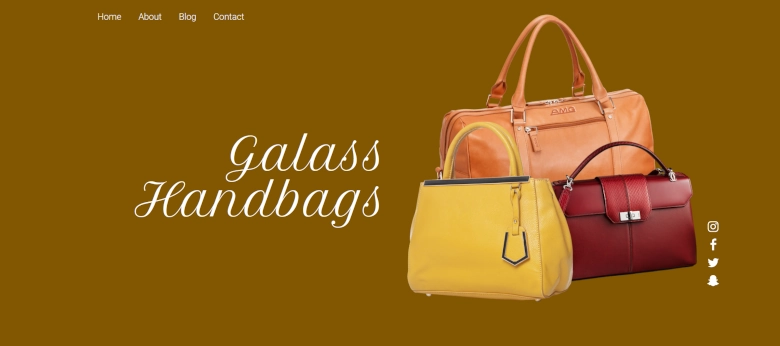
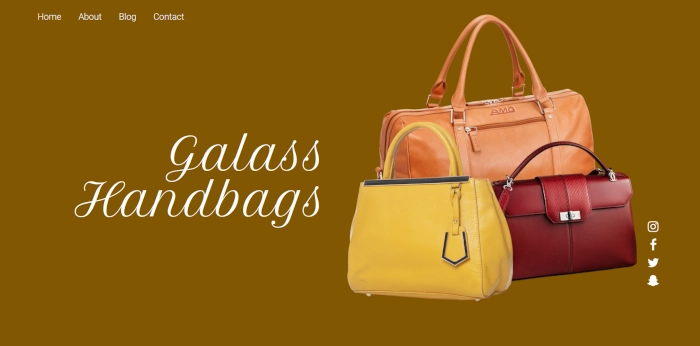
added contact me style

diff --git a/styles/styles.css b/styles/styles.css
@@ -269,6 +269,7 @@ html {
 }
 
 body {
+  font-family: "Roboto", sans-serif;
   font-size: 1rem;
   line-height: 28px;
   letter-spacing: 1px;
@@ -360,11 +361,14 @@ p {
 }
 .mainHeader .headerContainer .headerTxtContainer {
   width: 50%;
-  font-size: 1.3rem;
+}
+.mainHeader .headerContainer .headerTxtContainer h1 {
+  font-size: 2.5rem;
+  line-height: 120px;
 }
 .mainHeader .headerContainer .headerTxtContainer span {
   color: #ffc86b;
-  font-size: 4rem;
+  font-size: 4.5rem;
 }
 .mainHeader .headerContainer .headerTxtContainer p {
   font-size: 2rem;
@@ -475,6 +479,8 @@ p {
   background-color: #ffc86b;
   padding: 5px 30px 5px 5px;
   margin: 0px 10px 0;
+  -webkit-transition: all 0.4s ease;
+  transition: all 0.4s ease;
 }
 .portfolio .projectTxtContainer a i {
   padding-left: 25px;
@@ -486,6 +492,61 @@ p {
 .portfolio .projectTxtContainer a:hover, .portfolio .projectTxtContainer a:focus {
   color: #ffc86b;
   background-color: #abacb0;
-  -webkit-transition: all 0.2s ease;
-  transition: all 0.2s ease;
+}
+
+.contactMe {
+  width: 100%;
+  background-color: #31333b;
+  padding: 100px 0 50px;
+  display: -webkit-box;
+  display: -ms-flexbox;
+  display: flex;
+  -webkit-box-orient: vertical;
+  -webkit-box-direction: normal;
+      -ms-flex-direction: column;
+          flex-direction: column;
+  -webkit-box-pack: center;
+      -ms-flex-pack: center;
+          justify-content: center;
+  -webkit-box-align: center;
+      -ms-flex-align: center;
+          align-items: center;
+}
+.contactMe .contactHrContainer {
+  width: 100%;
+  display: -webkit-box;
+  display: -ms-flexbox;
+  display: flex;
+  -webkit-box-pack: justify;
+      -ms-flex-pack: justify;
+          justify-content: space-between;
+  -webkit-box-align: center;
+      -ms-flex-align: center;
+          align-items: center;
+}
+.contactMe .contactHrContainer h2 {
+  text-align: center;
+}
+.contactMe .contactHrContainer p {
+  width: 38%;
+  border-bottom: 3px solid #ffc86b;
+}
+.contactMe .contactInfo {
+  margin: 100px 0;
+  background-color: #34353A;
+  -webkit-transition: all 0.5s ease;
+  transition: all 0.5s ease;
+}
+.contactMe .contactInfo i {
+  font-size: 1.5rem;
+  padding: 20px 30px;
+}
+.contactMe .contactInfo a {
+  color: #ffc86b;
+  font-size: 1.5rem;
+  padding-right: 20px;
+}
+.contactMe .contactInfo:hover, .contactMe .contactInfo:focus {
+  color: #ffc86b;
+  background-color: #abacb0;
 }

diff --git a/index.html b/index.html
@@ -9,6 +9,11 @@
     <!-- SITE STYLE -->
     <link rel="stylesheet" href="./styles/styles.css">
 
+    <!-- GOOGLE FONT -->
+    <link rel="preconnect" href="https://fonts.googleapis.com">
+    <link rel="preconnect" href="https://fonts.gstatic.com" crossorigin>
+    <link href="https://fonts.googleapis.com/css2?family=Roboto:wght@400;700;900&display=swap" rel="stylesheet">
+
 </head>
 <body>
     <!-- SKIP LINK -->
@@ -47,9 +52,9 @@
         <div class="wrapper">
             <div class="headerContainer">
                 <div class="headerTxtContainer">
-                    <h1>I'M <span>Radojko</span>
+                    <h1>I'M <span>Radojko</span></h1>
                     <p>Frontend Web Developer</p>
-                    </h1>
+                    
                 </div><!--End .headerTxtContainer-->
                 <div class="headerImgContainer">
                     <img src="" alt="">
@@ -169,9 +174,16 @@
 
         <!-- CONTACT ME SECTI0N -->
         <section id="contactMeSection" class="contactMe">
-            <h2>Contact Me</h2>
-            <a href="">email</a>
-            <a href="">?</a>
+            <div class="contactHrContainer">
+                <p></p>
+                <h2>Contact Me</h2>
+                <p></p>
+            </div>
+            <ul class="contactInfo">
+                <li><i class="fa-regular fa-envelope"></i><a
+                        href="mailto:radulovicradoyko@gmail.com">radulovicradoyko@gmail.com</a></li>
+            </ul>
+            
         </section>
     </main>
     

diff --git a/styles/sass/partials/_contactMe.scss b/styles/sass/partials/_contactMe.scss
@@ -1,0 +1,50 @@
+@use "./variables";
+
+.contactMe {
+    width: 100%;
+    background-color: variables.$secondaryBg;
+    padding: 100px 0 50px;
+    display: flex;
+    flex-direction: column;
+    justify-content: center;
+    align-items: center;
+    .contactHrContainer {
+        width: 100%;
+        display: flex;
+        justify-content: space-between;
+        align-items: center;
+        h2 {
+        text-align: center;
+         }
+
+         p {
+            width: 38%;
+            border-bottom: 3px solid variables.$tertinary;
+         }
+    }
+
+    .contactInfo {
+        margin: 100px 0;
+        background-color: variables.$primaryBg;
+        transition: all 0.5s ease;
+        i {
+            font-size: 1.5rem;
+            padding: 20px 30px;
+        }
+        a {
+            color: variables.$tertinary;  
+            font-size: 1.5rem;
+            padding-right: 20px;
+        }
+
+        &:hover, 
+        &:focus {
+            color: variables.$tertinary;
+            background-color: variables.$navFontColor;
+                
+        }
+        
+    }
+    
+    
+}

diff --git a/styles/sass/partials/_header.scss b/styles/sass/partials/_header.scss
@@ -13,11 +13,14 @@
         align-items: center;
         .headerTxtContainer {
             width: 50%;
-            font-size: 1.3rem;
+            h1 {
+                font-size: 2.5rem;
+                line-height: 120px;
+            }
             span {
                 color: variables.$tertinary;
                 // display: block;
-                font-size: 4rem;
+                font-size: 4.5rem;
             }
             p {
                 font-size: 2rem;

diff --git a/styles/sass/partials/_portfolio.scss b/styles/sass/partials/_portfolio.scss
@@ -43,6 +43,7 @@
             background-color: variables.$tertinary;
             padding: 5px 30px 5px 5px;
             margin: 0px 10px 0;
+            transition: all 0.4s ease;
 
             i {
                 padding-left: 25px;
@@ -56,7 +57,7 @@
             &:focus {
                 color: variables.$tertinary;
                 background-color: variables.$navFontColor;
-                transition: all 0.2s ease;
+                
             }
         }
     }

diff --git a/styles/sass/partials/_typography.scss b/styles/sass/partials/_typography.scss
@@ -7,6 +7,7 @@ html {
 }
 
 body {
+        font-family: 'Roboto', sans-serif;
     font-size: 1rem;
     line-height: 28px;
     letter-spacing: 1px;

diff --git a/styles/sass/partials/_variables.scss b/styles/sass/partials/_variables.scss
@@ -7,3 +7,6 @@ $navFontColor: #abacb0;
 $fontColor: #f9f9f9;
 $tertinary: #ffc86b;
 $navBgcolor: #34353ad5;
+
+// FONT
+$font: 'Roboto', sans-serif;

diff --git a/styles/sass/styles.scss b/styles/sass/styles.scss
@@ -7,4 +7,5 @@
 @use "./partials/header";
 @use "./partials/aboutMe";
 @use "./partials/portfolio";
+@use "./partials/contactMe";
 
